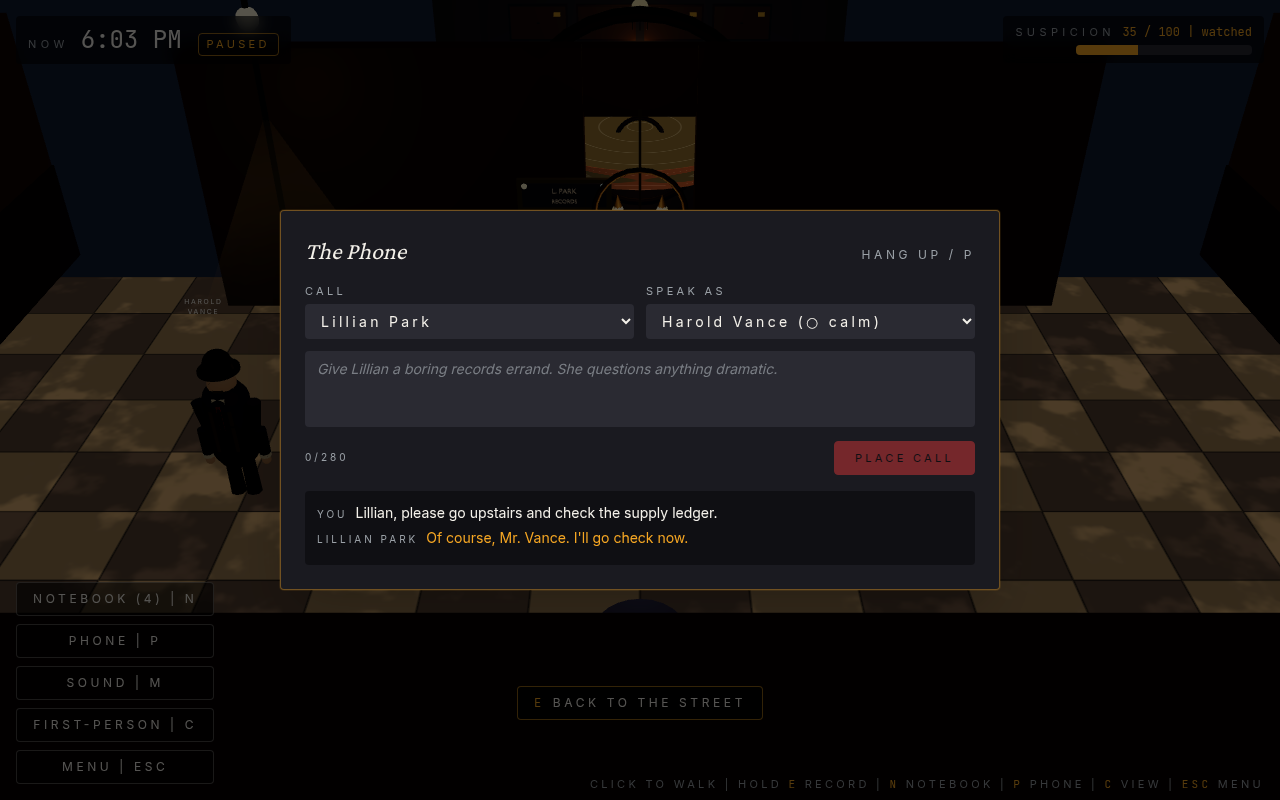
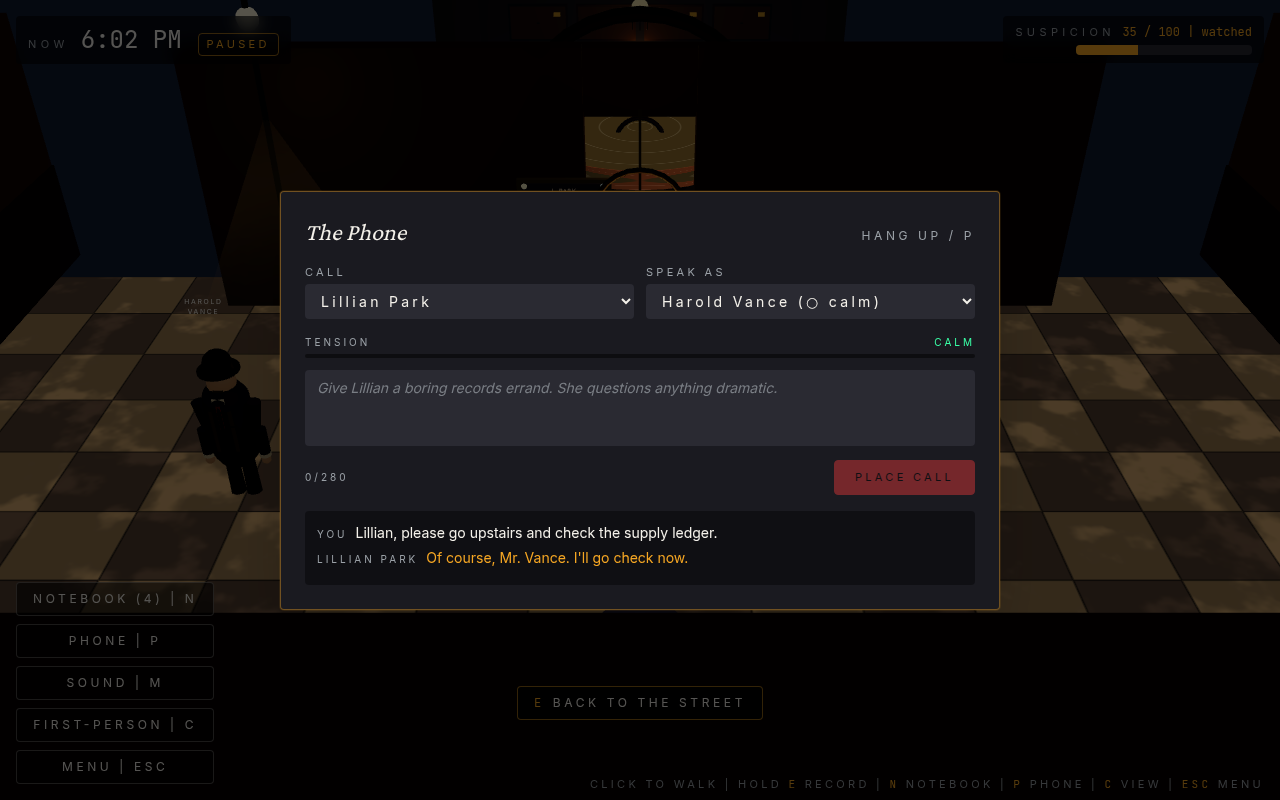
Multi-turn doubt accumulator + narrative tightening
The convergent feedback from 3/4 playtesters was that the phone bluff
read as regex bingo: keyword match → branch flip → done. Same call,
same keywords, same outcome forever.

Replaces single-turn keyword lookup with a multi-turn doubt accumulator.
Each turn analyzes coherence (word count, noun density, repetition,
generic-opener detection) and contributes a doubt delta to the live
ActiveCall. Threshold semantics:

- doubt < 30 going INTO a turn: branch flips work normally
- doubt ≥ 30 going INTO a turn: branch flips are BLOCKED — the same
  "winning" emergency phrase that triggered Maggie before now gets
  "Wait — slow down. You sound off." instead. Same words, different
  outcome, depending on how the call was set up.
- doubt ≥ 60 cumulative: forced hangup with heat scaled to doubt level.
  Botching the bluff costs proportionally to how badly it was botched.

Also added a live "Tension" meter in PhoneUI (calm/wary/exposed) so the
player can see doubt rising before they hit the wall.

Narrative critic's three free wins:
- Trimmed "Press N for schedules. Hold E when a voice is worth stealing."
  out of the intro cinematic. Trust the silence; the notebook teaches
  itself.
- Rewrote the win EndCard text quieter than the loss. "The platform is
  empty. The whistle is far. You step onto the train. It leaves the
  way trains leave when nobody is watching."
- Added one revealing dialogue beat each for wife and guard: Margaret's
[…]

diff --git a/src/components/game/PhoneUI.tsx b/src/components/game/PhoneUI.tsx
@@ -7,9 +7,16 @@ import { speakStolenText } from "@/audio/npcSpeech";
 import { emotionGlyph } from "@/game/emotionDisplay";
 import { setBranch } from "@/game/npcSchedules";
 import { distance } from "@/game/pathfinding";
-import { resolvePhoneRule, type PhoneRuleEffect } from "@/game/phoneRules";
+import {
+  analyzeTurnDoubt,
+  resolvePhoneRule,
+  type PhoneRuleEffect,
+} from "@/game/phoneRules";
 import { useGame } from "@/game/store";
 import type { NpcId } from "@/game/types";
+
+const HANGUP_DOUBT = 60;
+const BRANCH_BLOCK_DOUBT = 30;
 
 const TARGETS: NpcId[] = ["bankManager", "secretary", "bankGuard", "wife"];
 const OVERHEAR_RADIUS = 5;
@@ -56,6 +63,7 @@ export default function PhoneUI() {
   const setActiveCall = useGame((s) => s.setActiveCall);
   const activeCall = useGame((s) => s.activeCall);
   const pushCallTurn = useGame((s) => s.pushCallTurn);
+  const raiseCallDoubt = useGame((s) => s.raiseCallDoubt);
   const raiseSuspicion = useGame((s) => s.raiseSuspicion);
   const inGameTime = useGame((s) => s.inGameTime);
   // Subscribing to npcs makes the overhear warning live-update if a patrolling
@@ -101,10 +109,22 @@ export default function PhoneUI() {
       voiceCardId: card.id,
       transcript: [],
       pending: true,
+      doubt: 0,
     };
     if (!activeCall) setActiveCall(newCall);
 
+    // Compute turn doubt against the prior caller turns *before* we push
+    // the new turn. priorDoubt is the entry state — branch flips with
+    // priorDoubt ≥ 30 are blocked because the NPC was already suspicious
+    // when this turn started.
+    const priorCallerTurns = newCall.transcript
+      .filter((t) => t.role === "caller")
+      .map((t) => t.text);
+    const turnAnalysis = analyzeTurnDoubt(message, priorCallerTurns);
+    const priorDoubt = newCall.doubt;
+
     pushCallTurn({ role: "caller", text: message });
+    raiseCallDoubt(turnAnalysis.doubt);
 
     try {
       const res = await fetch("/api/conversation", {
@@ -137,17 +157,48 @@ export default function PhoneUI() {
         playAudio(data.callerAudio);
       }
 
-      pushCallTurn({ role: "npc", text: data.npcText });
+      const rule = resolvePhoneRule({
+        targetNpc: target,
+        callerNpc: card.npcId,
+        text: message,
+      });
+
+      // Branch flips ARE blocked when prior doubt was already too high. The
+      // NPC text is rewritten to a "you sound off" pushback so the player
+      // hears the consequence of fumbling the opener.
+      const branchBlocked = priorDoubt >= BRANCH_BLOCK_DOUBT && rule.effect?.branch;
+      const newDoubt = useGame.getState().activeCall?.doubt ?? 0;
+      const forceHangup = newDoubt >= HANGUP_DOUBT;
+
+      let displayedNpcText = data.npcText;
+      let effectiveHangup = data.hangUp;
+
+      if (branchBlocked) {
+        displayedNpcText = `Wait — slow down. You sound off. Who exactly is this?`;
+        effectiveHangup = false;
+      }
+      if (forceHangup) {
+        displayedNpcText = `That's it. I'm hanging up.`;
+        effectiveHangup = true;
+      }
+
+      pushCallTurn({ role: "npc", text: displayedNpcText });
       setTimeout(() => {
         if (data.mock || !data.npcAudio) {
-          speakStolenText(target, data.npcText, "calm");
+          speakStolenText(target, displayedNpcText, "calm");
         } else {
           playAudio(data.npcAudio);
         }
       }, 600);
 
-      if (data.raisedSuspicion > 0) {
+      if (data.raisedSuspicion > 0 && !branchBlocked) {
         raiseSuspicion(data.raisedSuspicion, `${target} grew suspicious`);
+      }
+
+      // High-doubt hangup is a serious heat event — scaled with how badly the
+      // bluff was botched. 60-doubt = 12 heat; 100-doubt = 24 heat.
+      if (forceHangup) {
+        raiseSuspicion(Math.round(newDoubt * 0.2), `${target} smelled the bluff`);
       }
 
       const overhearer = findOverhearer(target);
@@ -155,14 +206,11 @@ export default function PhoneUI() {
         raiseSuspicion(6, `${NPC_PROFILES[overhearer].displayName} overheard the call`);
       }
 
-      const rule = resolvePhoneRule({
-        targetNpc: target,
-        callerNpc: card.npcId,
-        text: message,
-      });
-      applyPhoneEffect(rule.effect);
+      if (!branchBlocked && !forceHangup) {
+        applyPhoneEffect(rule.effect);
+      }
 
-      if (data.hangUp) {
+      if (effectiveHangup) {
         setTimeout(() => {
           useGame.getState().pushToast(`${NPC_PROFILES[target].displayName} hung up.`);
           setActiveCall(null);
@@ -203,6 +251,8 @@ export default function PhoneUI() {
   const callerVoiceNpcId = selectedVoiceCard?.npcId ?? null;
   const placeholder = phonePlaceholder(callerVoiceNpcId, target);
   const hasVoices = inventory.length > 0;
+  const callDoubt = activeCall?.doubt ?? 0;
+  const doubtTone = callDoubt < 30 ? "calm" : callDoubt < 60 ? "wary" : "exposed";
   // Live overhear check — recomputes whenever npcs / player position change.
   const nearbyOverhearer = (() => {
     for (const id of Object.keys(npcs) as NpcId[]) {
@@ -276,6 +326,46 @@ export default function PhoneUI() {
         {!hasVoices && (
           <div className="mt-4 rounded border border-noir-amber/30 bg-black/35 px-3 py-3 text-sm text-noir-fog">
             Record someone first. The best leads are in the notebook schedule.
+          </div>
+        )}
+
+        {/* Tension meter: how doubtful the target sounds. Branch flips fail
+            once it crosses 30; the call ends entirely at 60. */}
+        {hasVoices && activeCall && (
+          <div className="mt-4">
+            <div className="flex items-baseline justify-between text-[10px] uppercase tracking-[0.3em] text-noir-fog">
+              <span>Tension</span>
+              <span
+                className={
+                  doubtTone === "calm"
+                    ? "text-[#3affa6]"
+                    : doubtTone === "wary"
+                      ? "text-noir-amber"
+                      : "text-noir-neon"
+                }
+              >
+                {doubtTone}
+              </span>
+            </div>
+            <div
+              className="mt-1 h-1 w-full overflow-hidden rounded-full bg-black/50"
+              role="progressbar"
+              aria-valuenow={Math.round(callDoubt)}
+              aria-valuemin={0}
+              aria-valuemax={100}
+              aria-label="Call tension"
+            >
+              <div
+                className={`h-full transition-all duration-300 ${
+                  doubtTone === "calm"
+                    ? "bg-[#3affa6]"
+                    : doubtTone === "wary"
+                      ? "bg-noir-amber"
+                      : "bg-noir-neon"
+                }`}
+                style={{ width: `${Math.min(100, callDoubt)}%` }}
+              />
+            </div>
           </div>
         )}
 

diff --git a/src/game/phoneRules.ts b/src/game/phoneRules.ts
@@ -265,3 +265,70 @@ export function resolvePhoneRule(input: PhoneRuleInput): PhoneRuleResult {
   }
   return wifeReply(input.callerNpc, text);
 }
+
+/**
+ * Score how plausible/coherent a single turn sounds. Returns a doubt delta
+ * (0-30 typical) plus a tone tag the UI can display ("specific", "weak",
+ * "generic", "neutral"). Calls accumulate doubt across turns; ≥60 ends the
+ * call, ≥30 (going into a turn) blocks branch-flip side effects so a
+ * fumbled opener can't be salvaged by spamming the right keywords later.
+ */
+export interface TurnAnalysis {
+  doubt: number;
+  tone: "specific" | "weak" | "generic" | "neutral";
+}
+
+const NOUN_HINTS = [
+  // people / pet-names
+  /maggie|margaret|harold|harry|lillian|cole|eddie|vance|park/i,
+  // places
+  /home|house|bedroom|window|cafe|booth|counter|lobby|alley|gate|office|attic|storage|supply|upstairs|vault|records/i,
+  // items
+  /ledger|file|papers|folder|key|button|coffee|patrol|round|beat/i,
+  // numbers / time
+  /\b(\d{1,2})(:\d\d)?\b|\b(seven|eight|nine|ten|eleven)\b/i,
+];
+
+const GENERIC_OPENERS = /^(hi|hey|hello|yo|yes|no|ok|okay|wait|um|uh)\b/i;
+
+function countNounHints(text: string): number {
+  let n = 0;
+  for (const r of NOUN_HINTS) if (r.test(text)) n += 1;
+  return n;
+}
+
+function wordCount(text: string): number {
+  const trimmed = text.trim();
+  if (!trimmed) return 0;
+  return trimmed.split(/\s+/).length;
+}
+
+export function analyzeTurnDoubt(text: string, priorTranscript: string[]): TurnAnalysis {
+  const words = wordCount(text);
+  const nouns = countNounHints(text);
+
+  // Repetition is the single most damning signal — if you say the same line
+  // twice, the NPC notices.
+  const seenBefore = priorTranscript.some((t) => t.trim().toLowerCase() === text.trim().toLowerCase());
+  if (seenBefore && text.trim().length > 0) {
+    return { doubt: 25, tone: "weak" };
+  }
+
+  // Very short or no nouns → reads as fishing / panicked. 18 is calibrated so
+  // a SECOND weak turn pushes cumulative doubt past the 30 branch-block
+  // threshold (player can't recover by spamming keywords after a fumble).
+  if (words < 4) return { doubt: 18, tone: "weak" };
+  if (nouns === 0) return { doubt: 16, tone: "weak" };
+
+  // Generic opener with little behind it.
+  if (GENERIC_OPENERS.test(text) && nouns < 2) return { doubt: 10, tone: "generic" };
+
+  // Specific multi-noun message with reasonable length: rapport-building.
+  if (nouns >= 3 && words >= 8) return { doubt: -3, tone: "specific" };
+
+  // Solid, coherent, on-topic.
+  if (nouns >= 2 && words >= 6) return { doubt: 2, tone: "neutral" };
+
+  // Default: light doubt for anything else.
+  return { doubt: 5, tone: "neutral" };
+}

diff --git a/src/components/game/IntroCinematic.tsx b/src/components/game/IntroCinematic.tsx
@@ -3,14 +3,15 @@
 import { useEffect, useState } from "react";
 import { useGame } from "@/game/store";
 
+// The cinematic earns its mood. Tutorial text used to live in beat 6 — it
+// undercut the silence. The notebook teaches itself; trust the silence.
 const BEATS = [
   { t: 0, line: "A hotel room. Rain on the window." },
   { t: 4500, line: "The radio whispers: First City Bank, the vault that listens." },
   { t: 9500, line: "A folded note on the bed. One word. ONE JOB." },
   { t: 14500, line: "You don't speak. You haven't, since the war." },
   { t: 19500, line: "But the city is full of voices." },
-  { t: 23500, line: "Press N for schedules. Hold E when a voice is worth stealing." },
-  { t: 28500, line: "Be at the station by 9." },
+  { t: 24500, line: "Last train at nine." },
 ];
 
 export default function IntroCinematic() {
@@ -24,7 +25,7 @@ export default function IntroCinematic() {
   }, []);
 
   useEffect(() => {
-    if (now >= 33000) setPhase("playing");
+    if (now >= 29000) setPhase("playing");
   }, [now, setPhase]);
 
   const visible = BEATS.filter((b) => now >= b.t).slice(-1)[0];

diff --git a/src/game/store.ts b/src/game/store.ts
@@ -114,6 +114,7 @@ export interface GameActions {
   takeBriefcase(): void;
   setActiveCall(call: ActiveCall | null): void;
   pushCallTurn(turn: { role: "caller" | "npc"; text: string }): void;
+  raiseCallDoubt(delta: number): void;
   setActiveAuth(auth: AuthAttempt | null): void;
   toggleNotebook(open?: boolean): void;
   togglePhone(open?: boolean): void;
@@ -284,6 +285,18 @@ export const useGame = create<GameState & GameActions>()(
               activeCall: {
                 ...s.activeCall,
                 transcript: [...s.activeCall.transcript, turn],
+              },
+            }
+          : s,
+      ),
+
+    raiseCallDoubt: (delta) =>
+      set((s) =>
+        s.activeCall
+          ? {
+              activeCall: {
+                ...s.activeCall,
+                doubt: Math.max(0, Math.min(100, s.activeCall.doubt + delta)),
               },
             }
           : s,

diff --git a/src/components/game/EndCard.tsx b/src/components/game/EndCard.tsx
@@ -46,7 +46,7 @@ export default function EndCard() {
         </h1>
         <p className="mx-auto mt-3 max-w-lg text-noir-fog">
           {won
-            ? "The train groans out of First City with the briefcase under your coat. Nobody remembers your voice, because you never used it."
+            ? "The platform is empty. The whistle is far. You step onto the train. It leaves the way trains leave when nobody is watching."
             : lossText(lossReason)}
         </p>
         <div className="mx-auto mt-6 grid max-w-xl grid-cols-3 gap-2 text-center">

diff --git a/src/game/types.ts b/src/game/types.ts
@@ -62,6 +62,11 @@ export interface ActiveCall {
   voiceCardId: string;
   transcript: { role: "caller" | "npc"; text: string }[];
   pending: boolean;
+  /** 0-100. Each turn that isn't tonally right adds doubt; once it crosses
+   *  60 the NPC hangs up regardless of keywords. Branch-flip side effects
+   *  are blocked if doubt was already ≥ 30 going into a turn — meaning a
+   *  player who fumbles the opener can't just spam keywords to recover. */
+  doubt: number;
 }
 
 export interface AuthAttempt {
